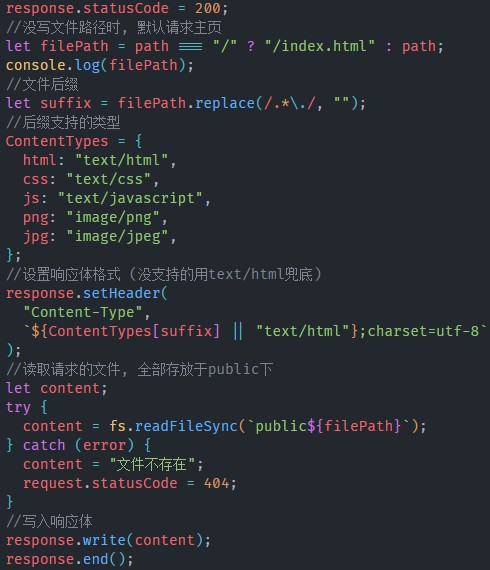
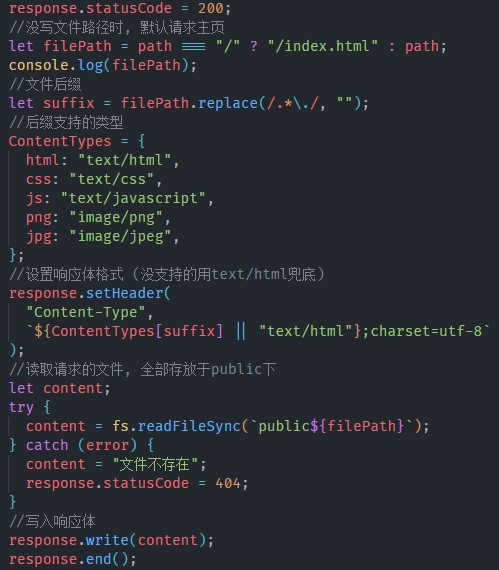
2022/8/23   23.46   静态服务器02

diff --git a/public/register.html b/public/register.html
@@ -1,0 +1,40 @@
+<!DOCTYPE html>
+<html lang="en">
+
+<head>
+    <meta charset="UTF-8">
+    <meta http-equiv="X-UA-Compatible" content="IE=edge">
+    <meta name="viewport"
+        content="width=device-width,initial-scale=1,minimum-scale=1,maximum-scale=1,user-scalable=no,viewport-fit=cover">
+    <title>注册页面</title>
+</head>
+
+<body>
+    <form id="registerForm" action="">
+        <div><label for="">用户名<input type="text" name="name"></label></div>
+        <div><label for="">密码<input type="password" name="password"></label></div>
+        <div><button type="submit">注册</button></div>
+    </form>
+
+    <script src="https://cdn.bootcdn.net/ajax/libs/jquery/3.6.0/jquery.min.js"></script>
+    <script>
+        let registerForm = document.querySelector('#registerForm');
+        //阻止默认事件, 避免点击按钮刷新页面
+        registerForm.addEventListener('submit', (e) => {
+            e.preventDefault()
+
+            let name = registerForm.querySelector('input[name=name]').value
+            let password = registerForm.querySelector('input[name=password]').value
+            console.log(name, password);
+
+            $.ajax({
+                method: "POST",
+                url: "/register",
+                contentType: "text/json;charset=utf-8",
+                data: JSON.stringify({ name: name, password: password }),
+            })
+        })
+    </script>
+</body>
+
+</html>

diff --git a/test.js b/test.js
@@ -1,0 +1,13 @@
+//node.js的加载模块对象
+let fs = require("fs");
+
+//读取数据库
+let usersString = fs.readFileSync("db/users.json").toString();
+let usersArray = JSON.parse(usersString);
+console.log(usersArray);
+
+//写入数据库
+let user3 = { id: 3, name: "小王", password: "yyyyyyyy" };
+usersArray.push(user3); //内存中的对象添加数据
+fs.writeFileSync("db/users.json", JSON.stringify(usersArray)); //数据库中添加数据
+console.log(usersArray);

diff --git a/server.js b/server.js
@@ -48,7 +48,7 @@ var server = http.createServer(function (request, response) {
     content = fs.readFileSync(`public${filePath}`);
   } catch (error) {
     content = "文件不存在";
-    request.statusCode = 404;
+    response.statusCode = 404;
   }
   //写入响应体
   response.write(content);
